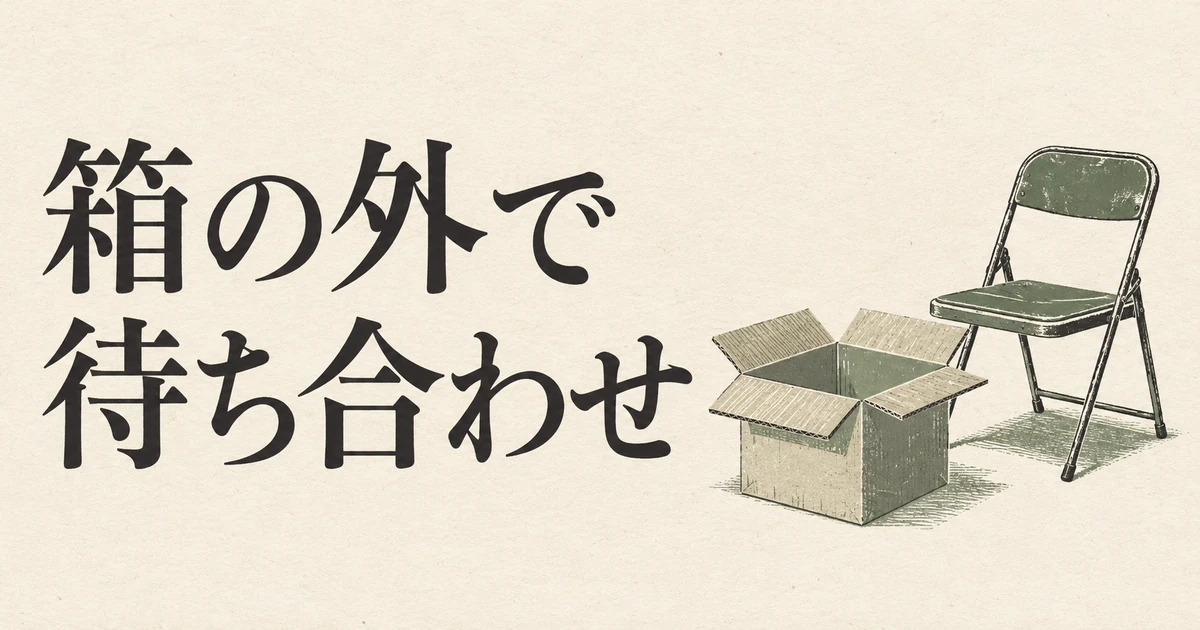
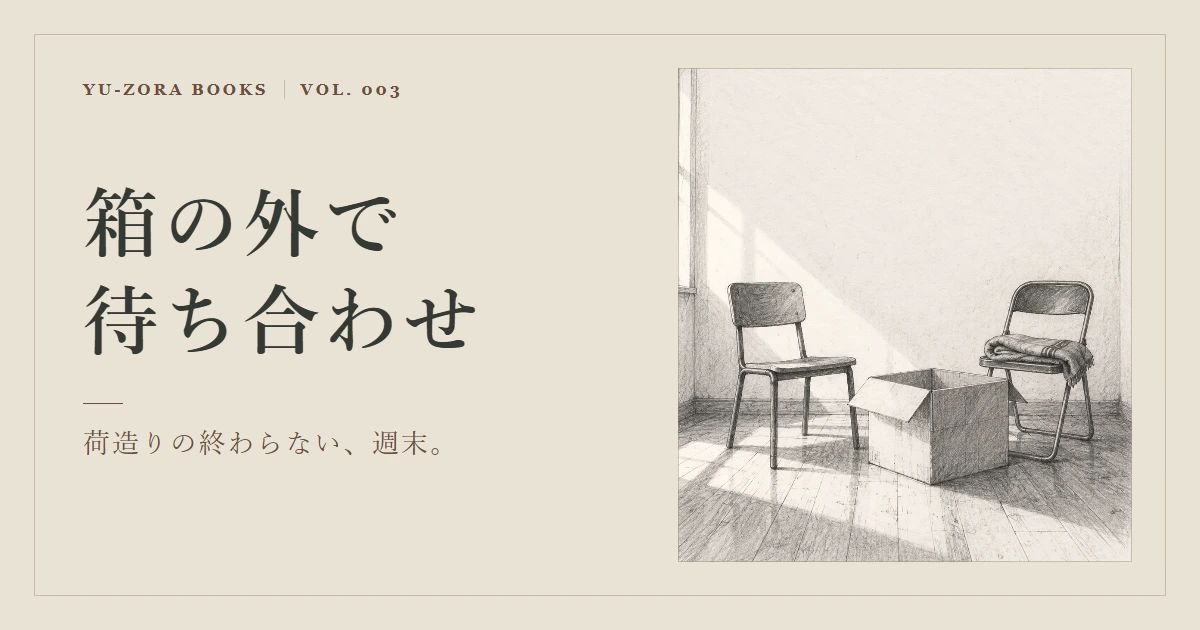
Match the Books landing typeface and redraw the featured covers

diff --git a/scripts/featured-banner-artwork.html b/scripts/featured-banner-artwork.html
@@ -1,0 +1,228 @@
+<!doctype html>
+<html lang="ja">
+<meta charset="utf-8">
+<title>YU-ZORA BOOKS 特集バナーの原稿</title>
+<style>
+  * { box-sizing: border-box; }
+  body { margin: 0; }
+  .banner {
+    --paper: #eae2d5;
+    --ink: #343833;
+    --accent: #694f41;
+    --rule: #8d786563;
+    width: 1200px;
+    height: 630px;
+    position: relative;
+    overflow: hidden;
+    background: var(--paper);
+    color: var(--ink);
+    font-family: "Yu Mincho", "Hiragino Mincho ProN", "Noto Serif CJK JP", serif;
+  }
+  .banner[data-book="ame-wo-tojikomeru"] {
+    --paper: #223c49;
+    --ink: #f3ebda;
+    --accent: #dfcfac;
+    --rule: #a8c0c06b;
+  }
+  .banner[data-book="mukae-no-nai-asa"] {
+    --paper: #3c3039;
+    --ink: #f0e9dc;
+    --accent: #e0bcaa;
+    --rule: #bf9e9175;
+  }
+  .banner[data-book="yama-wo-oriru-niwa-mada-hayai"] {
+    --paper: #e4dfcd;
+    --ink: #35372f;
+    --accent: #4d563f;
+    --rule: #666b5363;
+  }
+  .frame {
+    position: absolute;
+    inset: 34px;
+    border: 1px solid var(--rule);
+  }
+  .copy {
+    position: absolute;
+    inset: 82px auto 83px 83px;
+    width: 560px;
+    display: flex;
+    flex-direction: column;
+    justify-content: center;
+  }
+  .series {
+    position: absolute;
+    inset: 0 0 auto;
+    color: var(--accent);
+    font: 600 16px/1 Georgia, serif;
+    letter-spacing: .19em;
+  }
+  .series span + span {
+    border-left: 1px solid var(--rule);
+    margin-left: 15px;
+    padding-left: 16px;
+  }
+  h1 {
+    margin: 14px 0 0;
+    font-size: 76px;
+    font-weight: 600;
+    line-height: 1.28;
+    letter-spacing: .055em;
+  }
+  h1 span { display: block; white-space: nowrap; }
+  .subtitle {
+    margin: 32px 0 0;
+    padding-top: 19px;
+    position: relative;
+    color: var(--accent);
+    font-size: 27px;
+    letter-spacing: .07em;
+  }
+  .subtitle::before {
+    position: absolute;
+    inset: 0 auto auto 0;
+    width: 40px;
+    height: 1px;
+    background: currentColor;
+    content: "";
+  }
+  .art {
+    position: absolute;
+    inset: 68px 68px 68px auto;
+    width: 454px;
+    height: 494px;
+    overflow: hidden;
+  }
+  .art::after { position: absolute; inset: 0; border: 1px solid var(--rule); content: ""; }
+  .art img { width: 100%; height: 100%; object-fit: cover; object-position: center bottom; }
+  .banner[data-book="hako-no-soto-de-machiawase"] .art img { object-position: center 88%; }
+  .art [hidden] { display: none; }
+</style>
+<main class="banner">
+  <div class="frame" aria-hidden="true"></div>
+  <header class="copy">
+    <div class="series"><span>YU-ZORA BOOKS</span><span id="volume"></span></div>
+    <h1><span id="title-start"></span><span id="title-end"></span></h1>
+    <p class="subtitle"></p>
+  </header>
+  <div class="art" aria-hidden="true">
+    <canvas width="454" height="494" hidden></canvas>
+    <img alt="" hidden>
+  </div>
+</main>
+<script>
+  function drawRain(ctx) {
+    ctx.fillStyle = '#1a303a';
+    ctx.fillRect(0, 0, 454, 494);
+    ctx.strokeStyle = '#849ea533';
+    ctx.lineWidth = 1.5;
+    ctx.beginPath();
+    for (let row = 0; row < 13; row++) {
+      for (let column = 0; column < 13; column++) {
+        const x = column * 42 + (row * 17 % 37) - 13;
+        const y = row * 42 + (column * 13 % 23) - 20;
+        ctx.moveTo(x, y);
+        ctx.lineTo(x - 8, y + 24);
+      }
+    }
+    ctx.stroke();
+    ctx.strokeStyle = '#8fa6ab76';
+    ctx.strokeRect(39, 110, 376, 215);
+    ctx.strokeRect(47, 118, 360, 199);
+    ctx.strokeRect(60, 135, 134, 118);
+    ctx.strokeRect(259, 135, 134, 118);
+    ctx.strokeRect(203, 136, 47, 181);
+    ctx.fillStyle = '#d9c8a0';
+    ctx.fillRect(217, 145, 11, 172);
+    fillShape(ctx, '#dbca9e16', 'M217 317h11l29 177H155Z');
+    ctx.strokeStyle = '#8fa6ab53';
+    ctx.stroke(new Path2D('M27 326h400M61 328l-35 54M394 328l35 54'));
+
+    ctx.save();
+    ctx.translate(282, 370);
+    ctx.rotate(-.12);
+    ctx.beginPath();
+    ctx.roundRect(0, 0, 112, 69, 4);
+    ctx.fillStyle = '#243b45';
+    ctx.fill();
+    ctx.strokeStyle = '#d9c8a0';
+    ctx.stroke();
+    ctx.strokeRect(10, 11, 92, 29);
+    ctx.stroke(new Path2D('M23 62l7-14h52l7 14Z'));
+    ctx.beginPath();
+    ctx.arc(32, 25, 8, 0, 2 * Math.PI);
+    ctx.moveTo(88, 25);
+    ctx.arc(80, 25, 8, 0, 2 * Math.PI);
+    ctx.stroke();
+    ctx.restore();
+  }
+
+  function fillShape(ctx, color, outline) {
+    ctx.fillStyle = color;
+    ctx.fill(new Path2D(outline));
+  }
+
+  function drawDetectives(ctx) {
+    ctx.fillStyle = '#2e262f';
+    ctx.fillRect(0, 0, 454, 494);
+    const dawn = ctx.createLinearGradient(0, 45, 0, 406);
+    dawn.addColorStop(0, '#b0867a');
+    dawn.addColorStop(.62, '#d0a996');
+    dawn.addColorStop(1, '#edcfaa');
+    ctx.fillStyle = dawn;
+    ctx.fillRect(73, 54, 308, 353);
+    ctx.strokeStyle = '#bca194';
+    ctx.strokeRect(62.5, 43.5, 329, 363);
+    fillShape(ctx, '#422f3a', 'M73 54l53 38v302l-53 13Z');
+    fillShape(ctx, '#c8a58d42', 'M73 407h308l58 87H18Z');
+
+    // Tosaki faces left. The coat collar and jaw stay distinct in silhouette.
+    fillShape(ctx, '#29232d', `
+      M48 494 C57 459 62 418 66 368 C70 328 94 311 130 298
+      L151 285 L154 265 C152 257 149 253 144 252
+      L127 250 Q120 248 122 238 L123 229 L114 227
+      Q109 225 113 219 L128 197 C127 189 127 183 131 176
+      C128 162 138 144 153 135 C178 120 208 131 220 148
+      C236 165 233 186 224 204 C215 224 213 244 216 273
+      L226 292 C240 310 239 333 234 359 L222 494 Z
+    `);
+    fillShape(ctx, '#4a3945', 'M131 299l19-20 29 19 34-25 11 18-41 46Z');
+    fillShape(ctx, '#bb8f7a76', 'M150 286l28 14-16 11Z');
+
+    // Naruse faces right, with a low ponytail and a tailored jacket.
+    fillShape(ctx, '#443341', `
+      M224 494 C229 456 229 424 222 389 C216 358 220 331 232 313
+      L249 295 L251 278 C247 271 244 264 241 255
+      C226 277 215 283 206 278 C213 265 215 255 218 241
+      C221 229 225 222 237 219 C237 194 254 177 278 174
+      C304 171 321 185 325 201 Q329 212 328 221 L344 239
+      Q347 244 342 246 L333 248 L334 261 Q333 269 324 271
+      L310 272 Q304 274 304 287 L307 298 C337 311 363 329 371 363
+      C383 407 385 454 404 494 Z
+    `);
+    fillShape(ctx, '#302732', 'M249 290l29 20 29-16 17 12-27 34-18-22-21 21-23-27Z');
+    fillShape(ctx, '#c499864e', 'M228 311c-13 24-14 56-6 91 5 30 5 62 0 92h3c5-31 5-62 0-93-7-36-6-66 5-91Z');
+  }
+
+  async function renderBanner({ id, number, firstLine, secondLine, subtitle, coverArt }) {
+    document.querySelector('.banner').dataset.book = id;
+    document.querySelector('#volume').textContent = 'VOL. ' + number;
+    document.querySelector('#title-start').textContent = firstLine;
+    document.querySelector('#title-end').textContent = secondLine;
+    document.querySelector('.subtitle').textContent = subtitle;
+    const canvas = document.querySelector('canvas');
+    const draw = {
+      'ame-wo-tojikomeru': drawRain,
+      'mukae-no-nai-asa': drawDetectives,
+    }[id];
+    if (draw) {
+      draw(canvas.getContext('2d'));
+      canvas.hidden = false;
+    } else {
+      const image = document.querySelector('.art img');
+      image.src = coverArt;
+      await image.decode();
+      image.hidden = false;
+    }
+    await document.fonts.ready;
+  }
+</script>

diff --git a/public/assets/portal-shell.css b/public/assets/portal-shell.css
@@ -8,6 +8,8 @@
 .portal-header a:focus-visible { outline:2px solid #e7b18d;outline-offset:4px; }
 .bookshelf-subnav { border-bottom:1px solid var(--line);font-size:12px; }
 .books-index-page { --section-title:var(--ink); --section-muted:var(--muted); --section-accent:#9a5846; --section-rule:var(--line); }
+.books-index-page { --sans:var(--yu-portal-font, system-ui, sans-serif); --serif:var(--sans); font-family:var(--sans); }
+.books-index-page .yu-section-title { font-weight:750; }
 .home-trial-notice { background:#f0ddd1;color:#62352a;border-bottom:1px solid #dfbca9; }
 .home-trial-notice .yu-section-frame { display:flex;flex-wrap:wrap;align-items:baseline;gap:3px 18px;padding-block:10px;font-size:14px;line-height:1.65; }
 .home-trial-notice p { margin:0;overflow-wrap:anywhere; }

diff --git a/docs/FEATURED_BANNERS.md b/docs/FEATURED_BANNERS.md
@@ -3,11 +3,9 @@
 The Worker selects a public book for each home-page HTML response and streams its
 complete introduction, reading links and artwork into the document using
 HTMLRewriter. The browser retains that selection instead of shuffling it again.
-Home HTML is not cached or conditionally reused; image and script caching is
-unchanged. Static-only previews retain a client-side fallback. The four approved
-introduction banners were
-installed on 2026-10-23. Only the featured artwork uses these images: library
-cards, individual book pages, reader pages and social cards retain their covers.
+Home HTML is not cached or conditionally reused. Static-only previews retain a
+client-side fallback. These images appear in the featured slot. Library cards,
+individual book pages, reader pages and social cards use their own artwork.
 
 ## Assets
 
@@ -16,23 +14,18 @@ Each current book's `book.json` may set `featuredBanner` to a filename under
 path components. A book without this field uses its usual cover and book layout,
 so a newly published book joins the random selection without needing a banner.
 
-The current banners are `featured-banner-20261023.webp` (1200 x 630). They are
-displayed in full, with no rotation, cover mockup or cropping. Artwork files were
-generated with the built-in image_gen tool and exported to WebP using Sharp.
+The current banners are 1200 × 630 WebP images and display in full.
+The four designs were updated on 2026-11-13 in place at their existing URLs.
+[The HTML artwork](../scripts/featured-banner-artwork.html) defines the shared
+layout and the Canvas drawings for 雨を閉じこめる and 迎えのない朝. The other
+two designs use the original illustrations embedded in their covers.
 
-Approved source images:
+Run `node scripts/render-featured-banners.mjs <existing-preview-directory>` to
+review new exports. Omit the directory to write the four files named in
+`book.json`. The exporter needs Chrome, Yu Mincho for the original typography,
+and Playwright available to Node. Set `FEATURED_BANNER_PLAYWRIGHT` to the path
+to a Playwright package installed elsewhere if needed. The site build uses the
+committed WebP files directly.
 
-| Book | Source |
-| --- | --- |
-| ame-wo-tojikomeru | workspace `output/book-banner-previews/001-ame-wo-tojikomeru.png` |
-| mukae-no-nai-asa | workspace `output/book-banner-previews/002-mukae-no-nai-asa-v3.png` |
-| hako-no-soto-de-machiawase | generated image `exec-329b96b3-e7b4-4ccb-ae83-930f7fc82e8e.png` |
-| yama-wo-oriru-niwa-mada-hayai | workspace `output/book-banner-previews/004-yama-wo-oriru-niwa-mada-hayai-v2.png` |
-
-Prompt records are retained in workspace `output/book-banner-previews/PROMPTS.md`,
-`PROMPTS-v2.md` and `PROMPTS-v3.md`. The third book's original record is also in
-the main portal repository's `docs/BOOKS_ANNOUNCEMENT_ARTWORK.md`.
-
-Changing a featured-only banner is presentation work, not a manuscript revision:
-`featuredBanner` is excluded from the book-content activity hash. Usual cover,
+The book-content activity hash excludes `featuredBanner`. Usual cover,
 illustration and manuscript changes continue to be detected by the activity feed.
